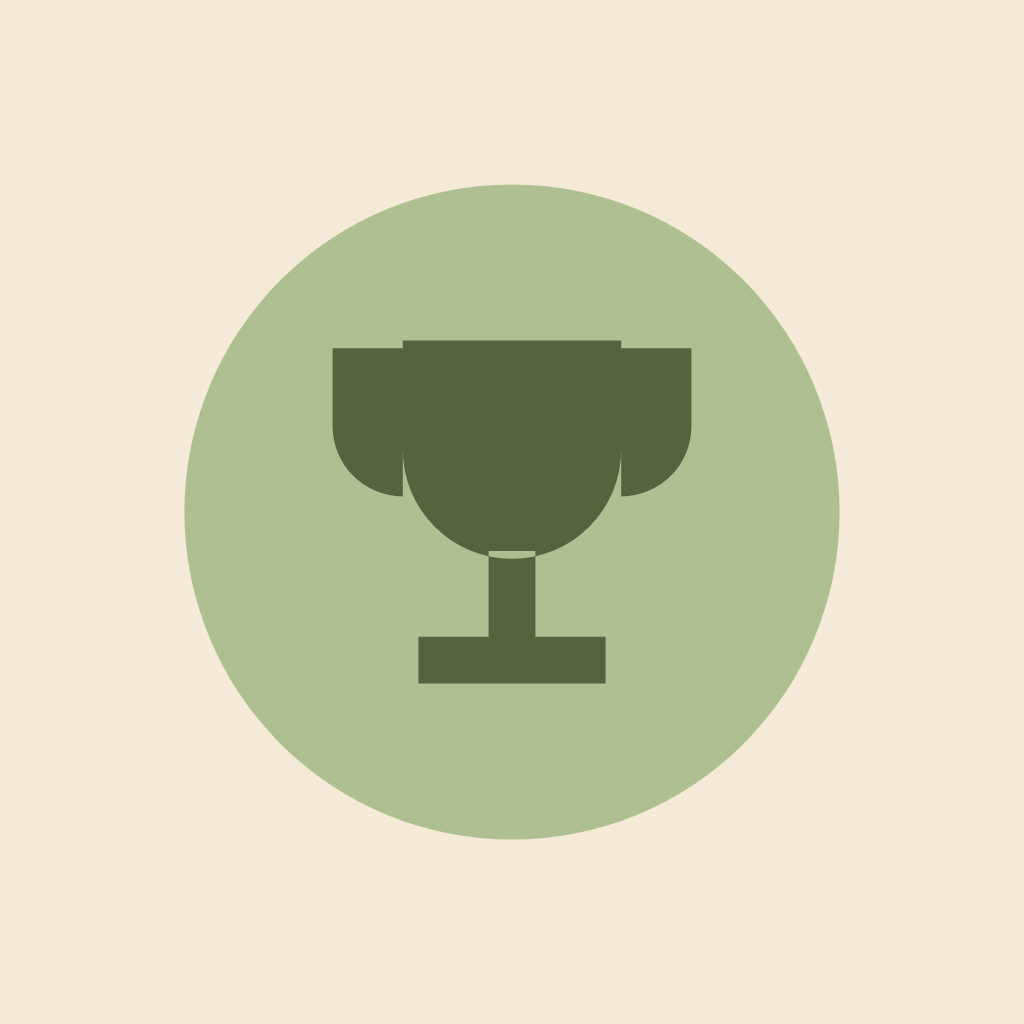
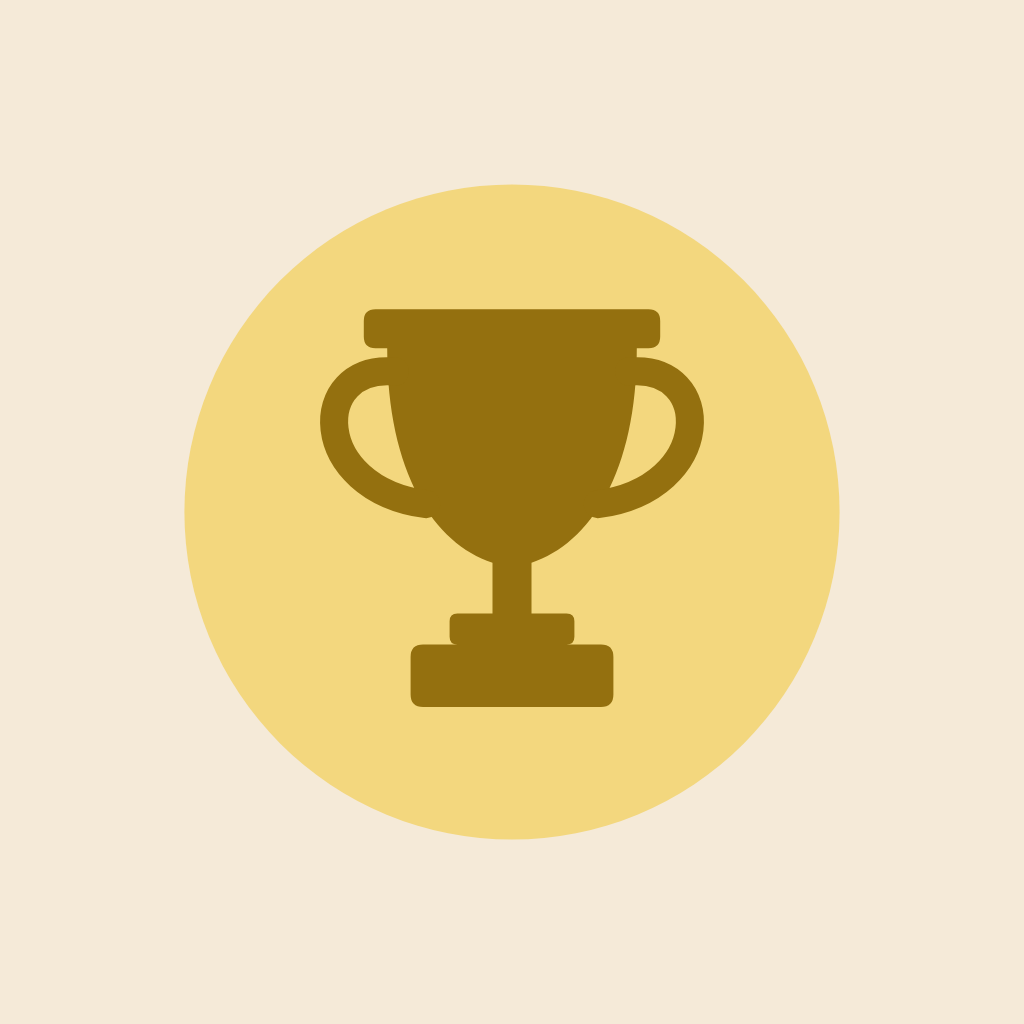
Count a hyperbolic tile's sides by its corners; redraw the trophy badge (#193)

diff --git a/web/src/ui/icons.ts b/web/src/ui/icons.ts
@@ -1195,14 +1195,14 @@ const ICON_TONES: Record<string, ShapeTone> = {
 //
 // Four symbols, in the icon set's plain indigo rather than a shape colour:
 // they stand for a milestone rather than for a tile, and painting them in a
-// tile hue would claim a shape they are not about.
+// tile hue would claim a shape they are not about. (The wins tiers' trophies
+// are the exception: bronze, silver and gold, see `trophy`.)
 
 /** A symbol on the icon set's plain disc, so a badge with no tiling in it still
  * fills the same box a tiling patch does. */
 function badge(path: string): string[] {
   // even-odd: these symbols have holes in them -- the warning triangle's bar
-  // and dot, the trophy's handles -- and a hole is a subpath, not a second
-  // colour.
+  // and dot -- and a hole is a subpath, not a second colour.
   return [
     circle(C, C, D * 0.42, null, 0, LIGHT),
     `<path d="${path}" fill="${plain("dark")}" fill-rule="evenodd"/>`,
@@ -1246,20 +1246,62 @@ function barsRects(d: number, filled: number, total: number): string[] {
   return rects;
 }
 
-function trophyPath(d: number): string {
-  // A cup with two handles, a stem and a foot.
-  const l = d * 0.36;
-  const r = d * 0.64;
+/** A rectangle with its corners rounded by `r`, as a clockwise subpath. */
+function roundRectPath(x: number, y: number, w: number, h: number, r: number): string {
   return (
-    `M ${n(l)} ${n(d * 0.28)} H ${n(r)} V ${n(d * 0.42)} ` +
-    `A ${n(d * 0.14)} ${n(d * 0.14)} 0 0 1 ${n(l)} ${n(d * 0.42)} Z ` +
-    `M ${n(d * 0.47)} ${n(d * 0.55)} h ${n(d * 0.06)} v ${n(d * 0.11)} h ${n(d * 0.09)} ` +
-    `v ${n(d * 0.06)} h ${n(-d * 0.24)} v ${n(-d * 0.06)} h ${n(d * 0.09)} Z ` +
-    `M ${n(l)} ${n(d * 0.29)} h ${n(-d * 0.09)} v ${n(d * 0.1)} ` +
-    `a ${n(d * 0.09)} ${n(d * 0.09)} 0 0 0 ${n(d * 0.09)} ${n(d * 0.09)} z ` +
-    `M ${n(r)} ${n(d * 0.29)} h ${n(d * 0.09)} v ${n(d * 0.1)} ` +
-    `a ${n(d * 0.09)} ${n(d * 0.09)} 0 0 1 ${n(-d * 0.09)} ${n(d * 0.09)} z`
+    `M ${n(x + r)} ${n(y)} H ${n(x + w - r)} Q ${n(x + w)} ${n(y)} ${n(x + w)} ${n(y + r)} ` +
+    `V ${n(y + h - r)} Q ${n(x + w)} ${n(y + h)} ${n(x + w - r)} ${n(y + h)} ` +
+    `H ${n(x + r)} Q ${n(x)} ${n(y + h)} ${n(x)} ${n(y + h - r)} V ${n(y + r)} ` +
+    `Q ${n(x)} ${n(y)} ${n(x + r)} ${n(y)} Z`
   );
+}
+
+/** The wins milestones' metals, lowest tier first: a light disc and the cup
+ * on it in a deep shade of the same metal, the two-tone of every other badge. */
+const TROPHY_METALS: { disc: string; ink: string }[] = [
+  { disc: "#e8c2a0", ink: "#8c5530" }, // bronze
+  { disc: "#d9dee4", ink: "#5f6b78" }, // silver
+  { disc: "#f3d77e", ink: "#94700f" }, // gold
+];
+
+/** The trophy: a lipped rim, a bowl that narrows into its stem, a collar and a
+ * plinth, and two loop handles.
+ *
+ * Not a `badge()`: the pieces meet and overlap (the handles run into the bowl,
+ * the collar onto the stem), and under even-odd every overlap is a hole — the
+ * old drawing had a light sliver across its stem for exactly that reason. It
+ * has no holes, so the body is one nonzero fill, every subpath clockwise, and
+ * the handles are a round-capped stroke rather than outlines of one.
+ *
+ * `tier` 1 to 3 is the wins milestone it stands for, drawn in bronze, silver
+ * and gold — the one place a badge leaves the theme's palette, because a
+ * metal's rank is the thing the colour says. A bare `trophy` is the plain
+ * chrome. */
+function trophy(d: number, tier?: number): string[] {
+  const metal = tier === undefined ? undefined : TROPHY_METALS[tier - 1];
+  const ink = metal?.ink ?? plain("dark");
+  const body =
+    roundRectPath(d * 0.31, d * 0.24, d * 0.38, d * 0.05, d * 0.015) +
+    ` M ${n(d * 0.34)} ${n(d * 0.29)} H ${n(d * 0.66)} ` +
+    `C ${n(d * 0.66)} ${n(d * 0.45)} ${n(d * 0.6)} ${n(d * 0.54)} ${n(d * 0.525)} ${n(d * 0.565)} ` +
+    `V ${n(d * 0.64)} H ${n(d * 0.475)} V ${n(d * 0.565)} ` +
+    `C ${n(d * 0.4)} ${n(d * 0.54)} ${n(d * 0.34)} ${n(d * 0.45)} ${n(d * 0.34)} ${n(d * 0.29)} Z ` +
+    roundRectPath(d * 0.42, d * 0.63, d * 0.16, d * 0.04, d * 0.01) +
+    " " +
+    roundRectPath(d * 0.37, d * 0.67, d * 0.26, d * 0.08, d * 0.016);
+  const handles =
+    `M ${n(d * 0.35)} ${n(d * 0.32)} C ${n(d * 0.24)} ${n(d * 0.31)} ${n(d * 0.24)} ${n(d * 0.47)} ` +
+    `${n(d * 0.39)} ${n(d * 0.49)} ` +
+    `M ${n(d * 0.65)} ${n(d * 0.32)} C ${n(d * 0.76)} ${n(d * 0.31)} ${n(d * 0.76)} ${n(d * 0.47)} ` +
+    `${n(d * 0.61)} ${n(d * 0.49)}`;
+  return [
+    metal
+      ? `<circle cx="${n(C)}" cy="${n(C)}" r="${n(D * 0.42)}" fill="${metal.disc}"/>`
+      : circle(C, C, D * 0.42, null, 0, LIGHT),
+    `<path d="${body}" fill="${ink}"/>`,
+    `<path d="${handles}" fill="none" stroke="${ink}" stroke-width="${n(d * 0.036)}" ` +
+      `stroke-linecap="round"/>`,
+  ];
 }
 
 function flagPath(d: number): string {
@@ -1317,7 +1359,11 @@ function draw(rawKey: string): string[] {
     }
   }
   if (key === "star") return badge(starPath(d));
-  if (key === "trophy") return badge(trophyPath(d));
+  if (key === "trophy") return trophy(d);
+  if (key.startsWith("trophy:")) {
+    const tier = Number(key.slice(7));
+    if (Number.isInteger(tier) && tier >= 1 && tier <= TROPHY_METALS.length) return trophy(d, tier);
+  }
   if (key === "flag") return badge(flagPath(d));
   if (key === "warning") return badge(warningPath(d));
 

diff --git a/web/tests/unit/achievements.test.ts b/web/tests/unit/achievements.test.ts
@@ -30,7 +30,7 @@ import {
 } from "../../src/boards/catalog";
 import { blockedModes } from "../../src/boards/fairness";
 import { buildBoard, hasMode } from "../../src/boards/presets";
-import { classifyShapes } from "../../src/render/shapePalette";
+import { cellSides } from "../../src/render/shapePalette";
 import { menuIcon } from "../../src/ui/icons";
 
 // What a screenshot of the achievements page could never tell you: that the
@@ -107,10 +107,24 @@ describe("the declared shape list", () => {
     const sides = new Set<number>();
     for (const mode of everyBuiltMode()) {
       const board = buildBoard(mode, "easy");
-      const tones = classifyShapes(board.polygons, board.cornerMask ?? null, "curved" in board && board.curved);
-      for (const tone of tones.values()) sides.add(tone.sides);
+      for (const n of cellSides(board.polygons, board.cornerMask).values()) sides.add(n);
     }
     expect([...sides].sort((a, b) => a - b)).toEqual(SHAPE_SIDES);
+  });
+
+  it("counts a hyperbolic tile by its corners, not the points its arcs are drawn through", () => {
+    // Measured with `cellSides`, the one count a win files (`GameSession.
+    // sideCounts`). The hyperbolic boards draw each edge as an arc through
+    // extra points, and a count that ignored the corner mask filed a {5,4}
+    // win as 13 to 15 sides, and a {7,3} one as 17 to 21 — the heptagon badge
+    // never, and the Spectre's 13-gon badge for the wrong board.
+    for (const [mode, sides] of [["hyperbolic73", 7], ["hyperbolic54", 5], ["hyperbolic45", 4]] as const) {
+      for (const difficulty of ["easy", "medium", "hard"]) {
+        const board = buildBoard(mode, difficulty);
+        expect(new Set(cellSides(board.polygons, board.cornerMask).values()), `${mode} ${difficulty}`)
+          .toEqual(new Set([sides]));
+      }
+    }
   });
 });
 

diff --git a/web/src/session.ts b/web/src/session.ts
@@ -16,7 +16,7 @@ import { mulberry32, type Rng } from "./rng";
 import type { BoardMesh, CellVisual } from "./render/boardMesh";
 import { cellStyle, DEFAULT_FINISH, finishStyle, type Finish } from "./render/cellStyle";
 import { PolygonBoard } from "./render/polygonBoard";
-import { shapeMetrics } from "./render/shapePalette";
+import { cellSides } from "./render/shapePalette";
 import { SolidBoard } from "./render/solidBoard";
 
 // GameSession mediates between the pure Game (rules), the board mesh (flat
@@ -515,22 +515,16 @@ export class GameSession {
   }
 
   /** The side count of a cell's tile, the shape its voice is built from.
-   * Measured the way the shape *colours* are (`shapeMetrics`, collinear
-   * T-vertices dropped), so a tile that looks like a pentagon sounds like
-   * one. */
+   * Measured the way the shape *colours* are (`cellSides`: collinear
+   * T-vertices and a hyperbolic edge's arc points dropped), so a tile that
+   * looks like a pentagon sounds like one. */
   private sidesOf(cell: CellId): number {
     return this.sidesMap().get(cell) ?? 4;
   }
 
   /** The whole board measured, built once. */
   private sidesMap(): Map<CellId, number> {
-    if (!this.sides) {
-      this.sides = new Map();
-      const masks = isBoard3D(this.board) ? this.board.cornerMask : null;
-      for (const [id, polygon] of this.board.polygons) {
-        this.sides.set(id, shapeMetrics(polygon, masks?.get(id)).sides);
-      }
-    }
+    this.sides ??= cellSides(this.board.polygons, this.board.cornerMask);
     return this.sides;
   }
 

diff --git a/web/tests/unit/soundHarmony.test.ts b/web/tests/unit/soundHarmony.test.ts
@@ -1,8 +1,7 @@
 import { describe, expect, it } from "vitest";
 import presets from "@data/presets.json";
-import { isBoard3D } from "../../src/boards/core";
 import { buildBoard } from "../../src/boards/presets";
-import { shapeMetrics } from "../../src/render/shapePalette";
+import { cellSides } from "../../src/render/shapePalette";
 import { SOUND_PRESETS, type SoundPreset } from "../../src/audio/presets";
 import { gridNote, noteFor, voicesFor, type CellSound } from "../../src/audio/sound";
 
@@ -25,16 +24,10 @@ import { gridNote, noteFor, voicesFor, type CellSound } from "../../src/audio/so
 const CONSONANT = new Set([0, 3, 4, 5, 7, 8, 9]);
 
 /** Every distinct side count on a board, measured the way the game measures
- * it for sound (`GameSession.sidesOf`): `shapeMetrics`, collinear T-vertices
- * dropped, the 3D boards' authoritative corner mask where there is one. */
+ * it for sound (`GameSession.sidesOf`, which is `cellSides`). */
 function sideCounts(mode: string): number[] {
   const board = buildBoard(mode, "easy");
-  const masks = isBoard3D(board) ? board.cornerMask : null;
-  const seen = new Set<number>();
-  for (const [id, polygon] of board.polygons) {
-    seen.add(shapeMetrics(polygon, masks?.get(id)).sides);
-  }
-  return [...seen].sort((a, b) => a - b);
+  return [...new Set(cellSides(board.polygons, board.cornerMask).values())].sort((a, b) => a - b);
 }
 
 /** The catalog's shape sets, one per distinct combination rather than one per

diff --git a/web/src/render/shapePalette.ts b/web/src/render/shapePalette.ts
@@ -537,6 +537,22 @@ export function tileSpan(
   return total / poly.length;
 }
 
+/** Each cell's side count, through the board's corner mask where it has one.
+ *
+ * The game's own count — what a win files for the shape achievements and what
+ * picks a cell's voice — so it is one function rather than a loop at each
+ * place. The mask is the part that matters: a hyperbolic tile's edges are
+ * drawn as arcs through extra points, and measured without it a heptagon
+ * counts every one of them (17 to 21 sides on {7,3}). */
+export function cellSides<K>(
+  polygons: Iterable<[K, readonly (readonly number[])[]]>,
+  cornerMasks?: Map<K, readonly boolean[]> | null,
+): Map<K, number> {
+  const out = new Map<K, number>();
+  for (const [key, poly] of polygons) out.set(key, shapeMetrics(poly, cornerMasks?.get(key)).sides);
+  return out;
+}
+
 /**
  * One tone per cell, classed **per board**.
  *

diff --git a/web/src/achievements.ts b/web/src/achievements.ts
@@ -318,7 +318,9 @@ function milestones(): Achievement[] {
       brief: `Win ${tier} games, on any boards`,
       done: `You won ${tier} games`,
       points: POINTS.winTier * 2 ** i,
-      icon: "trophy",
+      // Bronze, silver, gold: the three tiers are told apart by their badges,
+      // as the difficulty rungs are by their bars.
+      icon: `trophy:${i + 1}`,
       group: "milestone",
       measure: (p) => ({ have: Math.min(totalWins(p), tier), need: tier }),
     });

diff --git a/web/docs/ui.md b/web/docs/ui.md
@@ -1187,10 +1187,15 @@ drawn in, and the two match with no table between them. A family, surface or
 solid-group badge reuses that group's own menu icon key, which already draws a
 patch of the real tiling or a mesh of the real immersion. What is left is the
 hand-drawn symbols on the icon set's plain disc (`badge()` in `src/ui/icons.ts`:
-star, trophy, flag, warning, and a three-bar difficulty ladder that fills one
-bar per rung, drawing all three so a lone bar is not left saying nothing) —
-there is no geometry in "win ten boards". They are drawn `fill-rule="evenodd"`,
-because they have holes in them.
+star, flag, warning, and a three-bar difficulty ladder that fills one bar per
+rung, drawing all three so a lone bar is not left saying nothing; and the
+trophy) — there is no geometry in "win ten boards". The `badge()` symbols are
+drawn `fill-rule="evenodd"`, because they have holes in them. The trophy is
+not: its pieces overlap (handles into the bowl, collar onto the stem), and
+under even-odd an overlap is a hole, so it is one nonzero fill with its
+handles stroked. The three wins milestones (10, 50, 250) draw it in bronze,
+silver and gold (`trophy:1` to `trophy:3`) — the one badge that leaves the
+theme's palette, since a metal's rank is what its colour says.
 
 ## The record in iCloud
 

diff --git a/ios/README.md b/ios/README.md
@@ -614,9 +614,10 @@ closed and nothing flagged, zoomed in until its rim is off the banner. The searc
 card is three of the iPhone shots under one line, `SEARCH_HEADLINE` in the
 script. It is English, so it needs translating if the app is ever localised.
 Both are composed on the app's own Sand page with its chrome hidden. The App
-Clip card is the clip's own board in play, on that page, with no words — the
-card prints its title and subtitle under the image — and is a JPEG because the
-card takes no transparency.
+Clip card is the search card cropped in: the same 3:2 page, kept from just
+above the headline to just below the boards' shadows and from just outside the
+phones (`crop` on its `ART` entry), drawn at 1.2× so the kept 1500 × 1000 is the
+card's 1800 × 1200. It is a JPEG because the card takes no transparency.
 
 The `imessage-*` slots are the iMessage app's own screenshots: a conversation
 drawn in the manner of Messages — bubbles, the compose bar, the sticker drawer —
